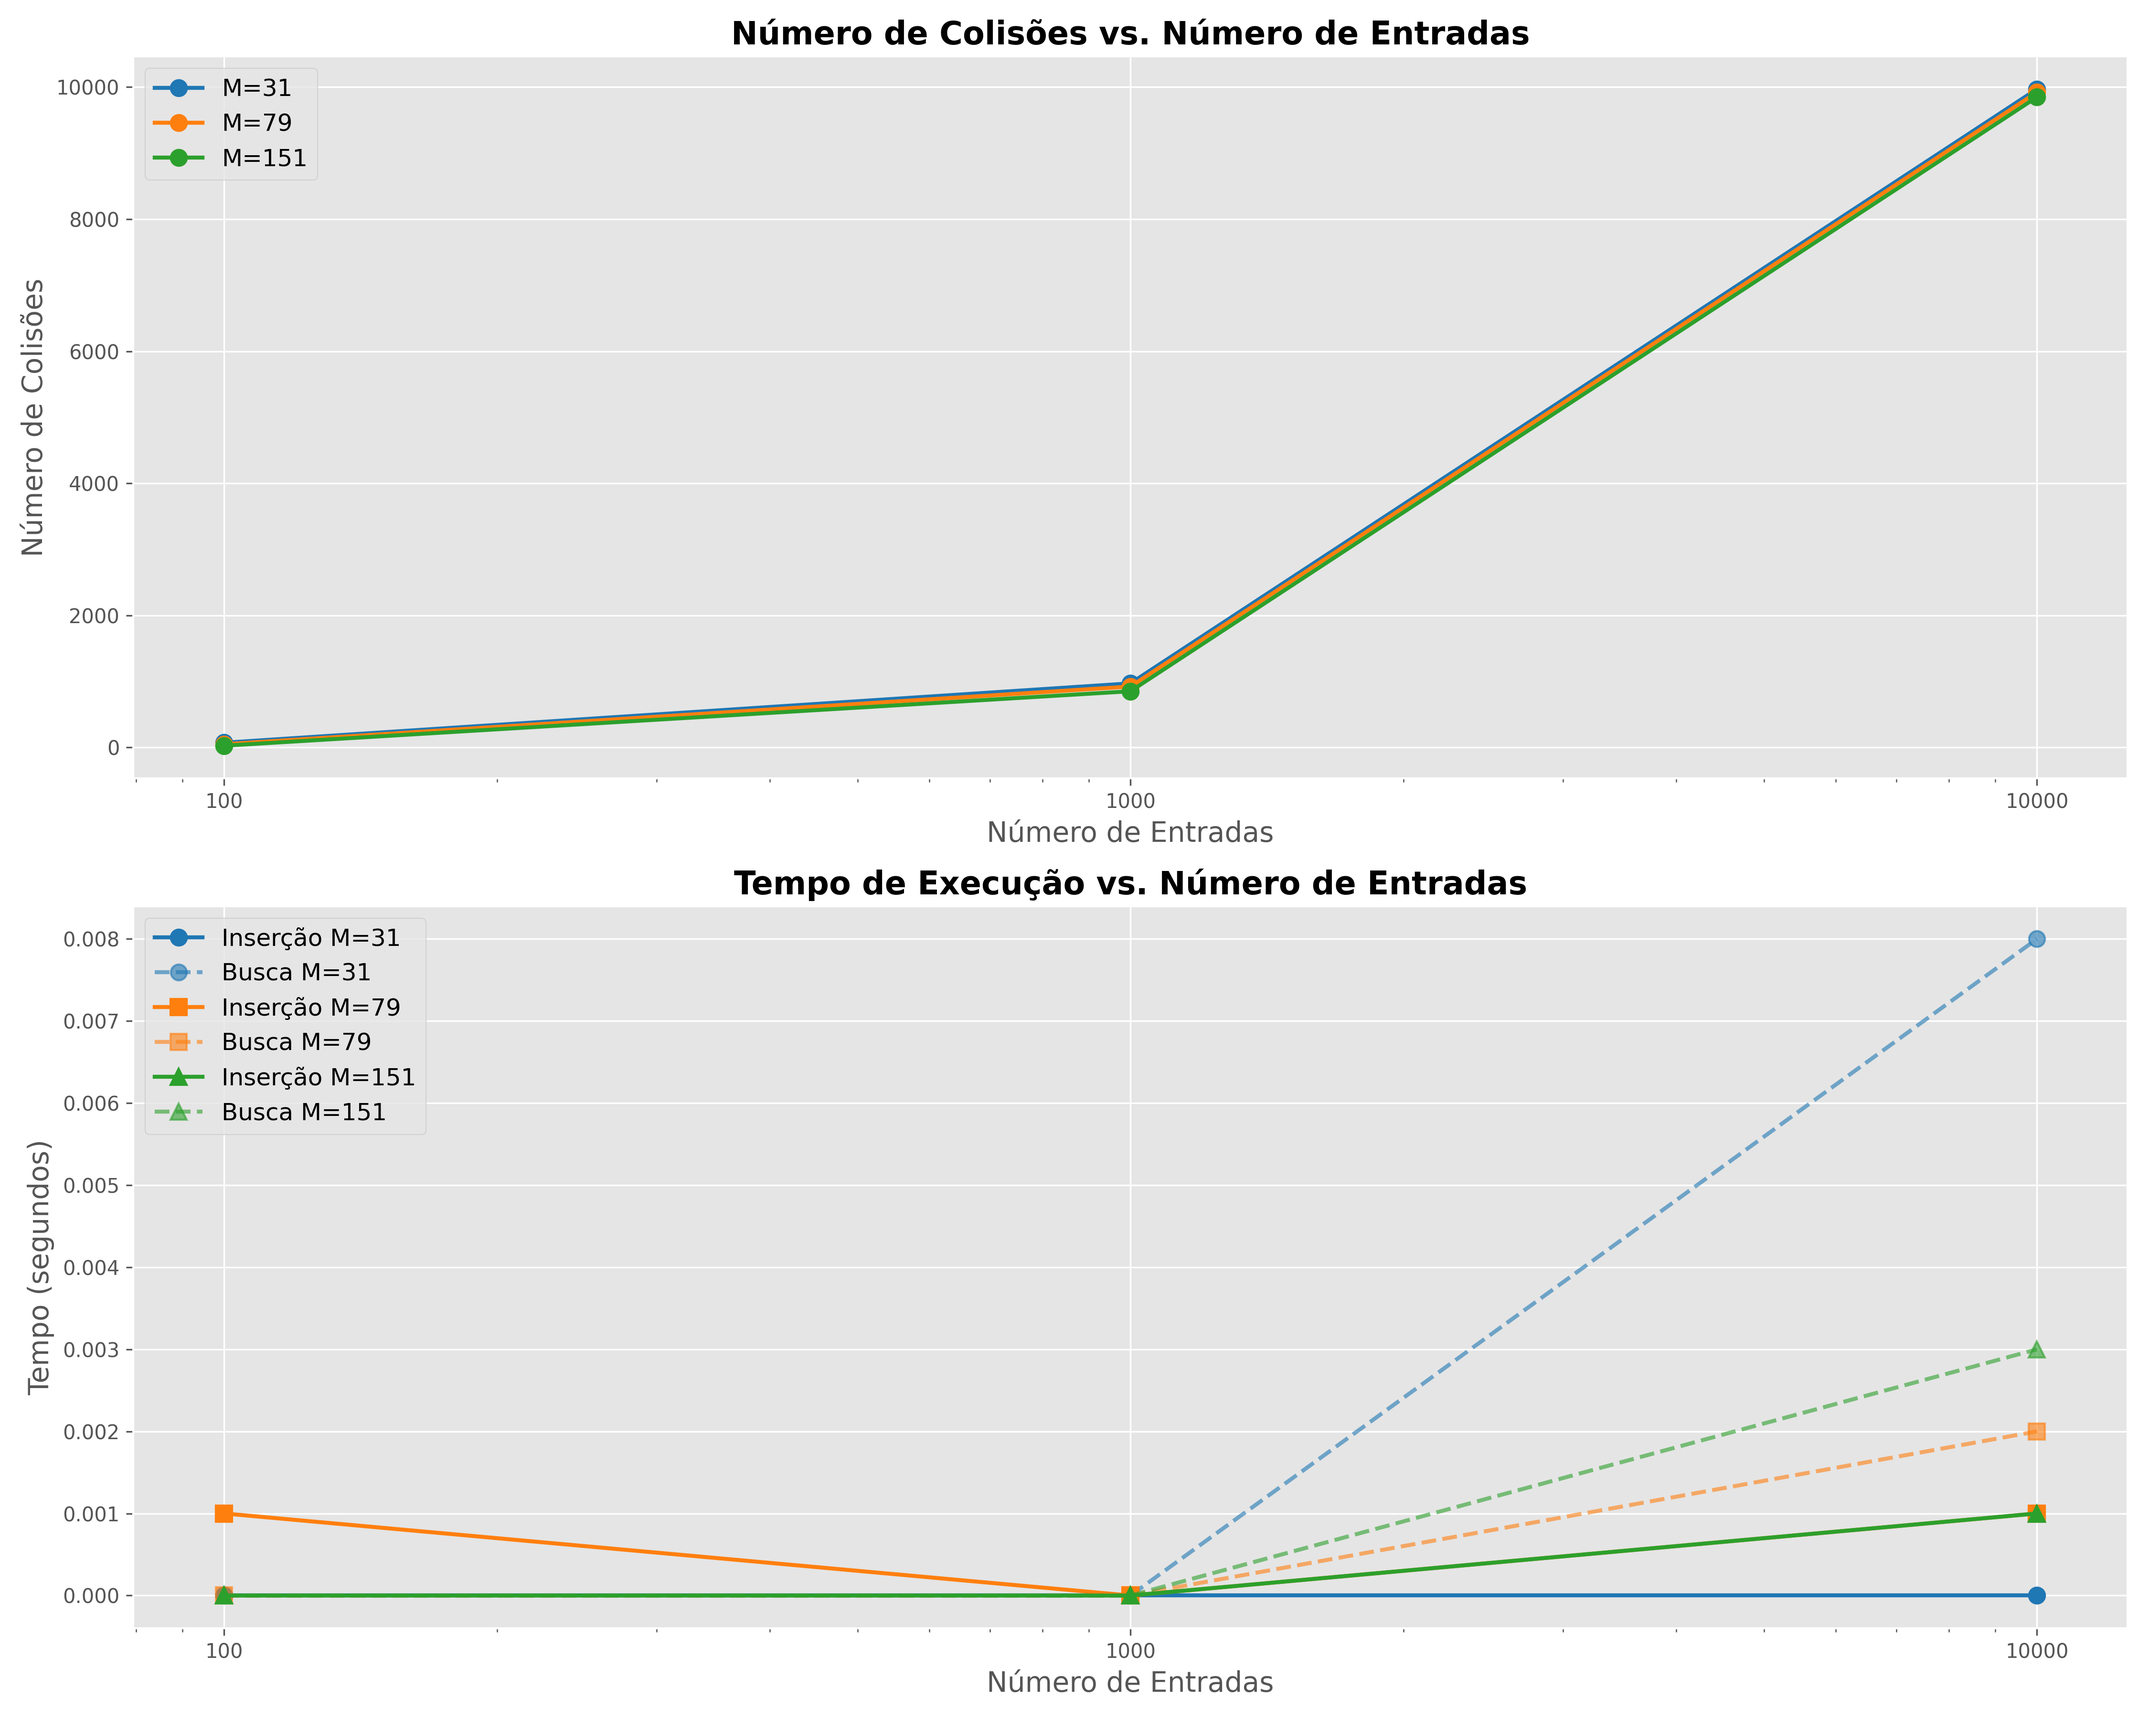
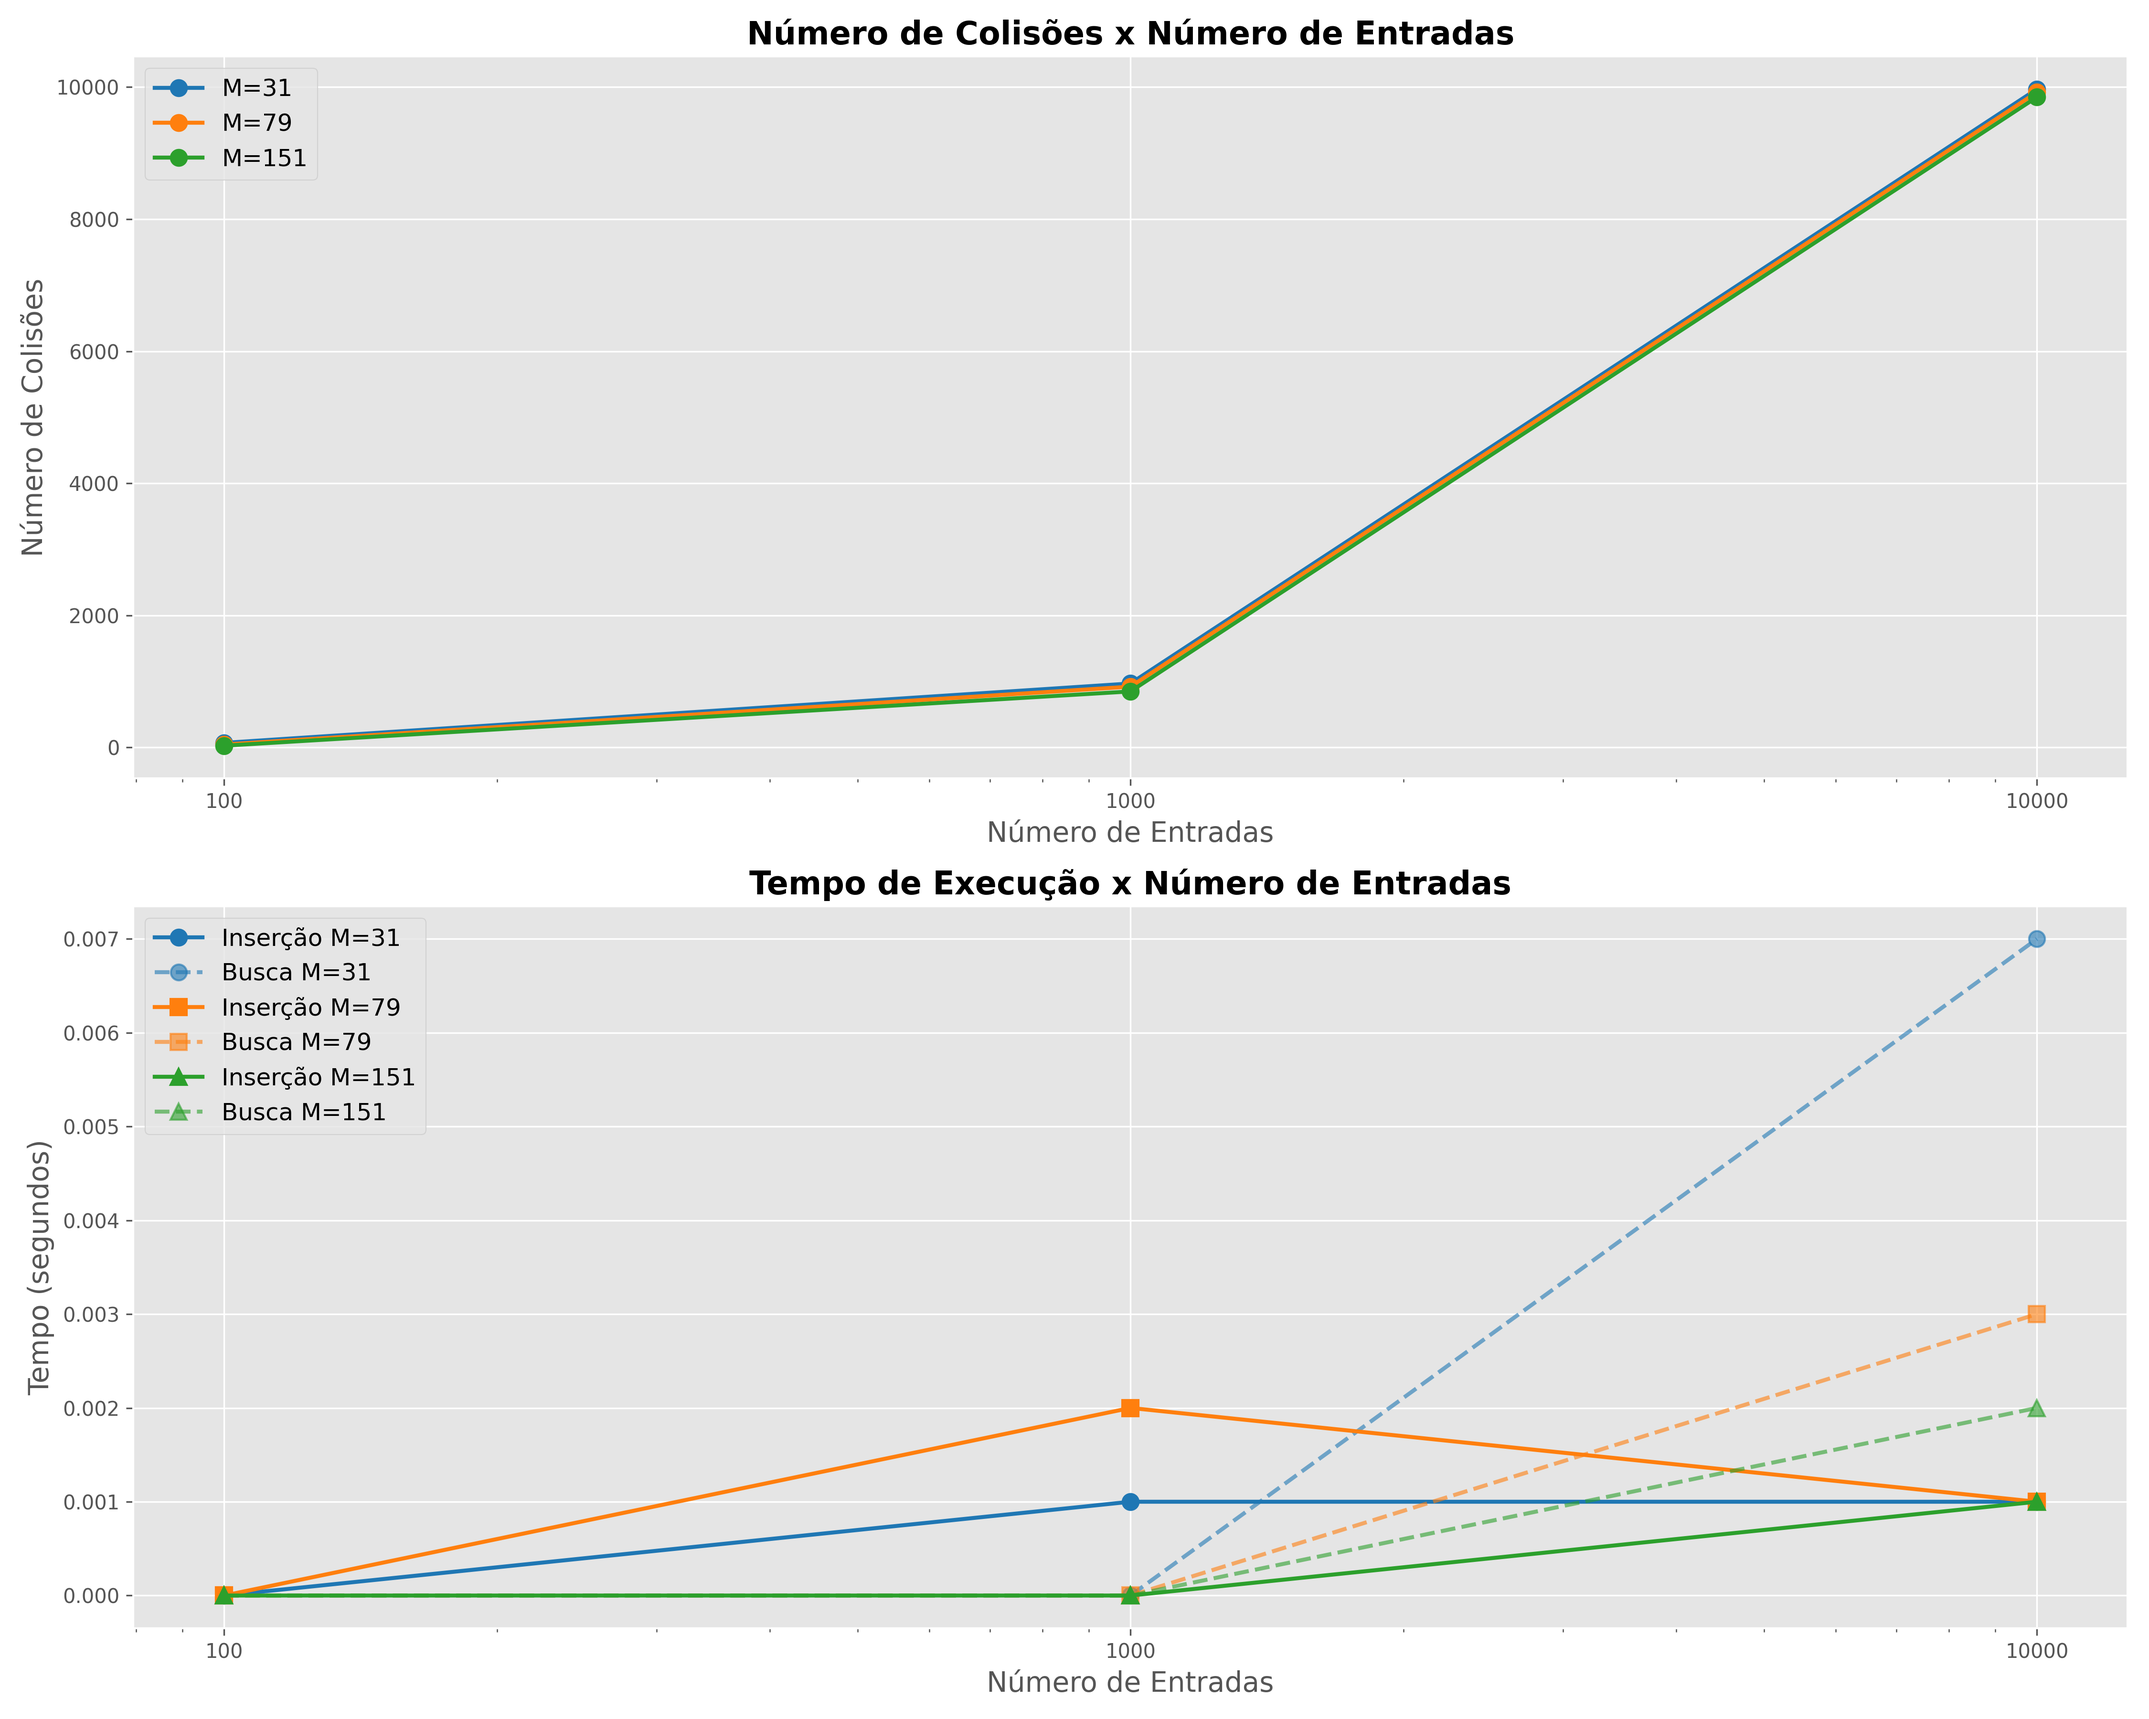
analyse

diff --git a/searching/hashtable-analysing/analyse.py b/searching/hashtable-analysing/analyse.py
@@ -30,7 +30,7 @@ for i, table_size in enumerate(data['TableSize'].unique()):
              linewidth=2, markersize=8, color=colors[i],
              label=f'M={table_size}')
 
-plt.title('Número de Colisões vs. Número de Entradas', fontsize=16, fontweight='bold')
+plt.title('Número de Colisões x Número de Entradas', fontsize=16, fontweight='bold')
 plt.xlabel('Número de Entradas', fontsize=14)
 plt.ylabel('Número de Colisões', fontsize=14)
 plt.legend(fontsize=12)
@@ -52,7 +52,7 @@ for i, table_size in enumerate(data['TableSize'].unique()):
              linewidth=2, markersize=8, color=colors[i], alpha=0.6,
              label=f'Busca M={table_size}')
 
-plt.title('Tempo de Execução vs. Número de Entradas', fontsize=16, fontweight='bold')
+plt.title('Tempo de Execução x Número de Entradas', fontsize=16, fontweight='bold')
 plt.xlabel('Número de Entradas', fontsize=14)
 plt.ylabel('Tempo (segundos)', fontsize=14)
 plt.legend(fontsize=12)
@@ -70,7 +70,7 @@ for i, table_size in enumerate(data['TableSize'].unique()):
              linewidth=2, markersize=8, color=colors[i],
              label=f'M={table_size}')
 
-plt.title('Taxa de Colisão vs. Número de Entradas', fontsize=16, fontweight='bold')
+plt.title('Taxa de Colisão x Número de Entradas', fontsize=16, fontweight='bold')
 plt.xlabel('Número de Entradas', fontsize=14)
 plt.ylabel('Taxa de Colisão (colisões/entradas)', fontsize=14)
 plt.legend(fontsize=12)
